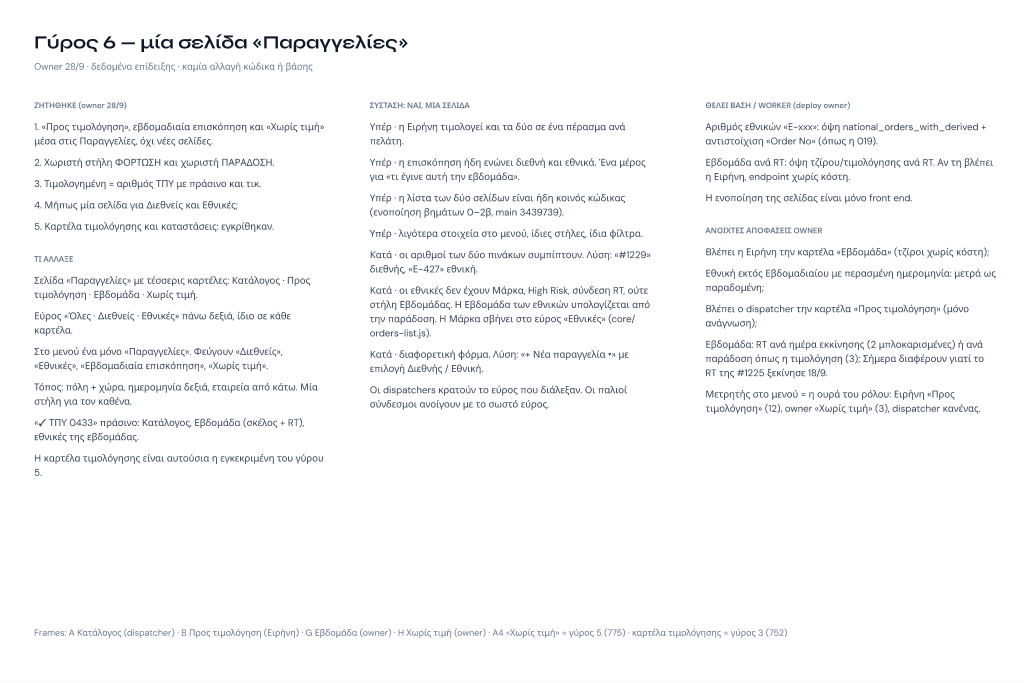
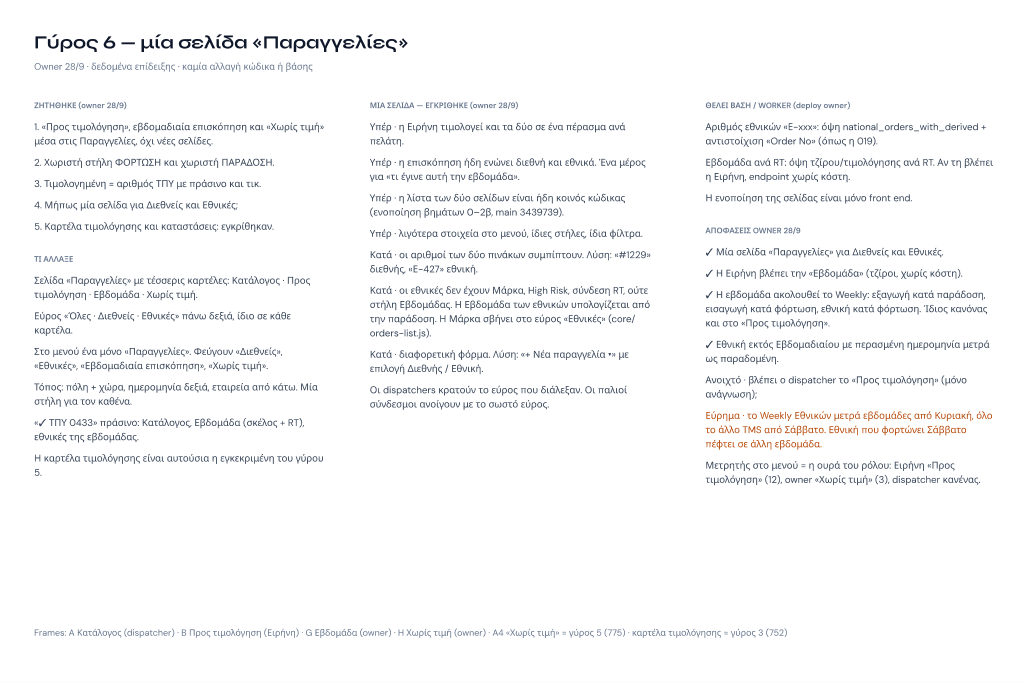
docs: αποφάσεις owner 28/9 για τις Παραγγελίες — μία σελίδα, Ειρήνη βλέπει Εβδομάδα, εβδομάδα = Weekly (εξαγωγή παράδοση, εισαγωγή/εθνική φόρτωση), εθνική εκτός Εβδομαδιαίου = παραδομένη· DECISION_LOG + frames G/B/E· εύρημα: Weekly Εθνικών μετρά από Κυριακή

Changed region(s): [[0.6875, 0.3075, 0.9688, 0.7072], [0.375, 0.1537, 0.4688, 0.1845]]

diff --git a/docs/DECISION_LOG.md b/docs/DECISION_LOG.md
@@ -2329,3 +2329,23 @@ Matched Import ID / Rotation ID (επαληθευμένο στα σώματα PO
 `Cancelled`. Στη διαγραφή της 387 (22:21:31) οι triggers `order_unlink` + `rt_sync` έβγαλαν το σκέλος και έκαναν το RT-195
 `cancelled` πριν τρέξει το cascade του front. Ο dispatcher είχε `orders/national_orders: GET·POST·PATCH` → κάθε διαγραφή του 403.
 **Ποιος:** owner («1. ναι 2. και διαγραφη σε pre order», 28/9), συντονιστής, Claude Opus 5.5.
+
+## 2026-09-28 · Παραγγελίες (redesign για την Ειρήνη)
+
+### Μία σελίδα «Παραγγελίες» για Διεθνείς και Εθνικές
+**Επιλογή:** μία σελίδα με καρτέλες Κατάλογος · Προς τιμολόγηση · Εβδομάδα · Χωρίς τιμή και εύρος Όλες/Διεθνείς/Εθνικές. Αριθμοί «#1229» διεθνής, «Ε-427» εθνική.
+**Εναλλακτικές:** δύο σελίδες όπως σήμερα + ξεχωριστές σελίδες επισκόπησης/«Χωρίς τιμή» (γύρος 5) — απορρίφθηκαν: η Ειρήνη τιμολογεί και τα δύο ανά πελάτη, και η λίστα είναι ήδη κοινός κώδικας (`core/orders-list.js`, main 3439739).
+**Απόδειξη:** Figma γύρος 6 (A 804 · B 805 · G 808 · H 808:1275 · E 810), `docs/data-audit/2026-09/2026-09-27-orders-redesign.md`.
+**Ποιος:** owner (Claude πρότεινε).
+
+### Η εβδομάδα ακολουθεί το Weekly
+**Επιλογή:** μια παραγγελία ανήκει στην εβδομάδα (Σάβ–Παρ) όπου τη δείχνει το Weekly: εξαγωγή κατά παράδοση, εισαγωγή κατά φόρτωση, εθνική κατά φόρτωση. Ίδιος κανόνας στην «Εβδομάδα» και στο «Προς τιμολόγηση».
+**Εναλλακτικές:** ημέρα εκκίνησης RT (έτσι μετρά το TRIP PnL, `costs.js` ctWeekOf) · ημέρα παράδοσης για όλα — απορρίφθηκαν: η ίδια εβδομάδα έβγαζε διαφορετικά νούμερα σε δύο οθόνες.
+**Απόδειξη:** `weekly_intl.js` (εξαγωγές Delivery, εισαγωγές Loading), `weekly_natl.js` (Loading). **Ανοιχτό εύρημα:** το Weekly Εθνικών μετρά εβδομάδες από Κυριακή, όλο το άλλο TMS από Σάββατο.
+**Ποιος:** owner.
+
+### Η Ειρήνη βλέπει την «Εβδομάδα» · εθνική εκτός Εβδομαδιαίου μετρά ως παραδομένη
+**Επιλογή:** η λογίστρια βλέπει τζίρους και τιμολόγηση ανά RT, χωρίς κόστη (θέλει endpoint χωρίς κόστη — το `/costs/pnl` είναι μόνο owner). Εθνική που δεν μπήκε στο Εβδομαδιαίο και η ημερομηνία παράδοσης πέρασε, είναι «προς κοπή».
+**Εναλλακτικές:** επισκόπηση μόνο για owner · εθνική εκτός Εβδομαδιαίου μπλοκαρισμένη μέχρι να μπει.
+**Απόδειξη:** απάντηση owner 28/9.
+**Ποιος:** owner.

diff --git a/docs/data-audit/2026-09/2026-09-27-orders-redesign.md b/docs/data-audit/2026-09/2026-09-27-orders-redesign.md
@@ -146,3 +146,10 @@ Screenshots: `shots/orders-redesign-r6-{A-catalog,B-invoicing,G-week,H-no-price,
 **Owner 28/9 (συμπλήρωση):** στα κελιά ΦΟΡΤΩΣΗ / ΠΑΡΑΔΟΣΗ κύρια γραμμή = **ονομασία σημείου** (π.χ. «Veria Fruit Pack»),
 από κάτω με γκρι **πόλη + χώρα** και η ημερομηνία δεξιά. Ισχύει σε Κατάλογο, Προς τιμολόγηση, Χωρίς τιμή και στην
 καρτέλα τιμολόγησης (Φόρτωση / Παράδοση). Groupage: «3 στάσεις φόρτωσης» με τις πόλεις από κάτω.
+
+**Αποφάσεις owner 28/9:** ✓ μία σελίδα · ✓ η Ειρήνη βλέπει την Εβδομάδα · ✓ η εβδομάδα ακολουθεί το Weekly (εξαγωγή κατά
+παράδοση, εισαγωγή κατά φόρτωση, εθνική κατά φόρτωση — ίδιος κανόνας στο «Προς τιμολόγηση») · ✓ εθνική εκτός Εβδομαδιαίου με
+περασμένη ημερομηνία μετρά ως παραδομένη. Ανοιχτό: dispatcher βλέπει «Προς τιμολόγηση»;
+Επίδραση στα frames: G ανά ημέρα Weekly, +RT-1183 (#1225, παράδοση 20/9) → 3/13, 10 εκκρεμείς, 3 μπλοκαρισμένες· B: η #1226
+(εισαγωγή, φόρτωση 18/9) πάει στην 12–18/9 → 19–25/9 = 7 προς κοπή, 14.130,00 € — ίδιο νούμερο με την Εβδομάδα.
+**Εύρημα:** `weekly_natl.js` μετρά εβδομάδες από Κυριακή (WEEKNUM), όλο το υπόλοιπο TMS από Σάββατο.
